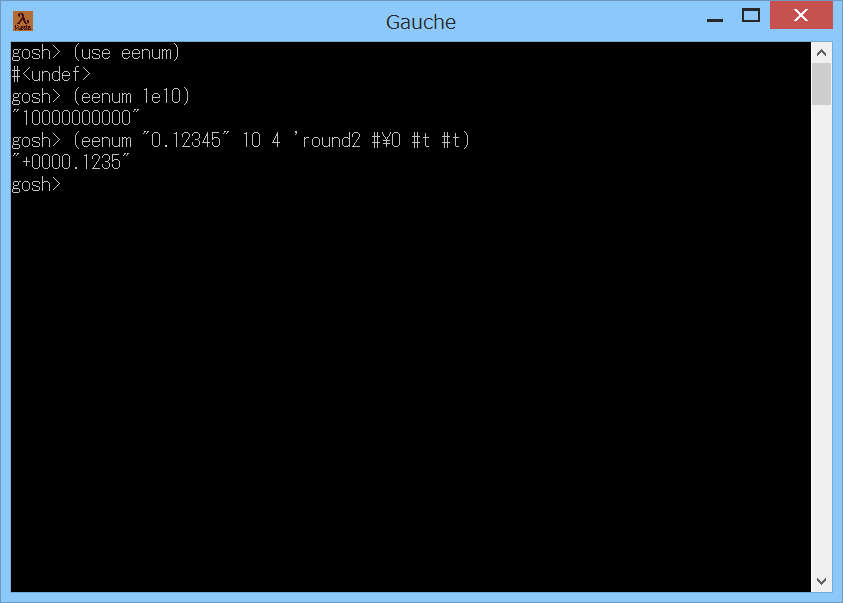
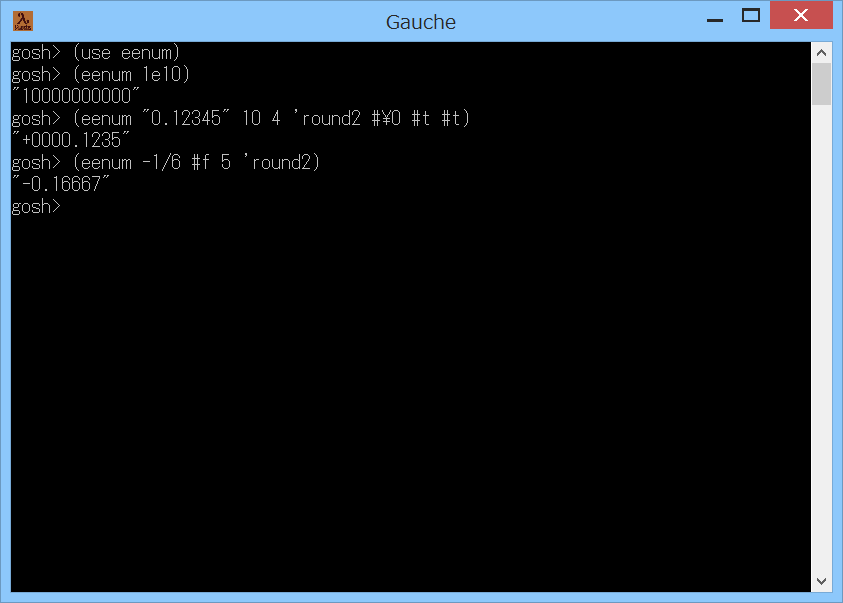
src chg v1.12

diff --git a/README.md b/README.md
@@ -20,7 +20,8 @@
   以後、(eenum 1e10) 等で数値の指数表記を展開できます。
 
 - eenum 手続きの書式は以下の通りです。  
-  `eenum num [width] [digits] [round-mode] [pad-char] [plus-sign] [sign-align-left]`
+  `eenum num [width] [digits] [round-mode] [pad-char]
+   [plus-sign] [sign-align-left] [circular-digits]`
   - 第1引数の num には、数値または数値の文字列を指定します。
 
   - 第2引数の width には、全体の文字数を指定します。  
@@ -63,6 +64,11 @@
     `#f` を指定すると、符号を左寄せにはしません。  
       (すなわち、符号を pad-char よりも右に出力します)  
     第7引数は省略可能です。省略時は #f を指定したことになります。
+
+  - 第8引数の circular-digits には、循環小数の最大桁数を指定します。  
+    num に有理数 (1/7 等) を指定すると 循環小数に展開しますが、  
+    ここで指定した桁数までで展開を止めます。  
+    第8引数は省略可能です。省略時は 100 を指定したことになります。
 
 
 ## 注意事項
@@ -145,6 +151,7 @@
 - 2016-6-13  v1.09 書式修正のみ
 - 2016-10-26 v1.10 整数でない数値を渡した場合には、不正確数に変換してから処理
 - 2016-10-27 v1.11 コメント修正等
+- 2017-1-3   v1.12 有理数を循環小数に展開する処理を追加
 
 
-(2016-10-28)
+(2017-1-3)
